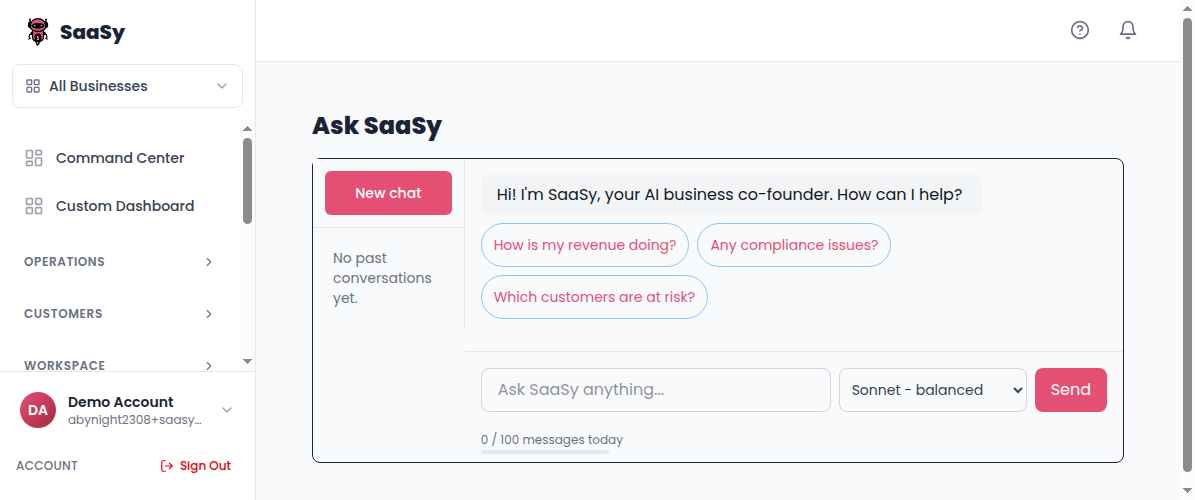
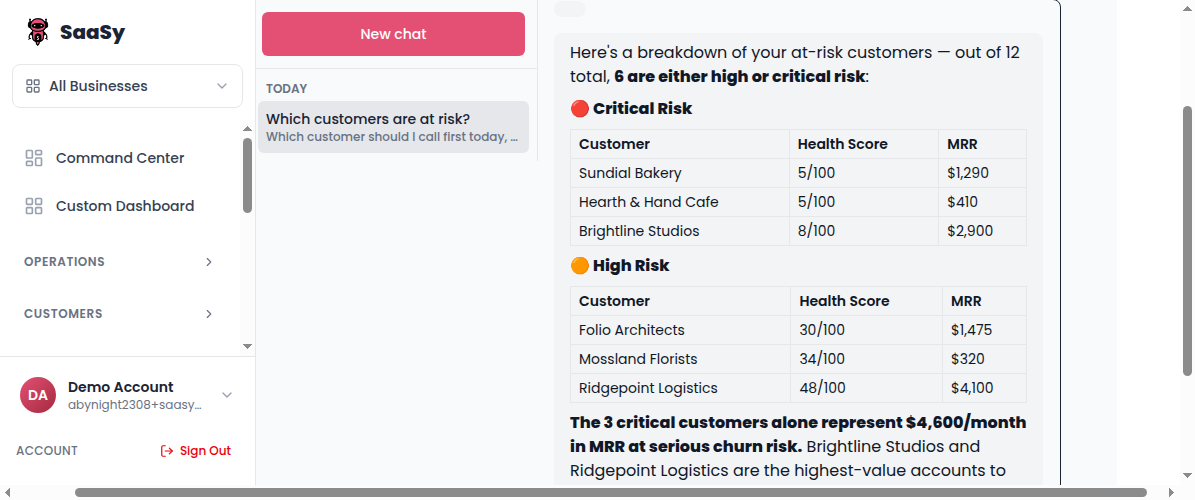
media: reshoot ask-saasy.png with a rendered grounded answer
The Ask SaaSy screenshot was an empty chat state while the adjacent
copy promised answers that cite records. With the GFM-table renderer
fixed in the product (saas-platform PR #2719, refs #2652), the shot
now shows the real thing: "Which customers are at risk?" answered
with rendered Critical/High Risk tables (health scores + MRR from the
live demo tenant) and the takeaway "The 3 critical customers alone
represent $4,600/month in MRR at serious churn risk." Alt text on the
/features row updated to match.

diff --git a/app/features/page.tsx b/app/features/page.tsx
@@ -238,7 +238,7 @@ export default function FeaturesPage(): React.ReactElement {
             actual records they came from."
           image="/screenshots/ask-saasy.png"
           video={revVideoUrl("feature-clip-ask.mp4")}
-          alt="Ask SaaSy chat interface with quick-prompt buttons for common business questions"
+          alt="Ask SaaSy answering 'Which customers are at risk?' with tables of critical and high-risk customers, health scores, and MRR, grounded in live account data"
           imageWidth={1195}
           imageHeight={500}
         />